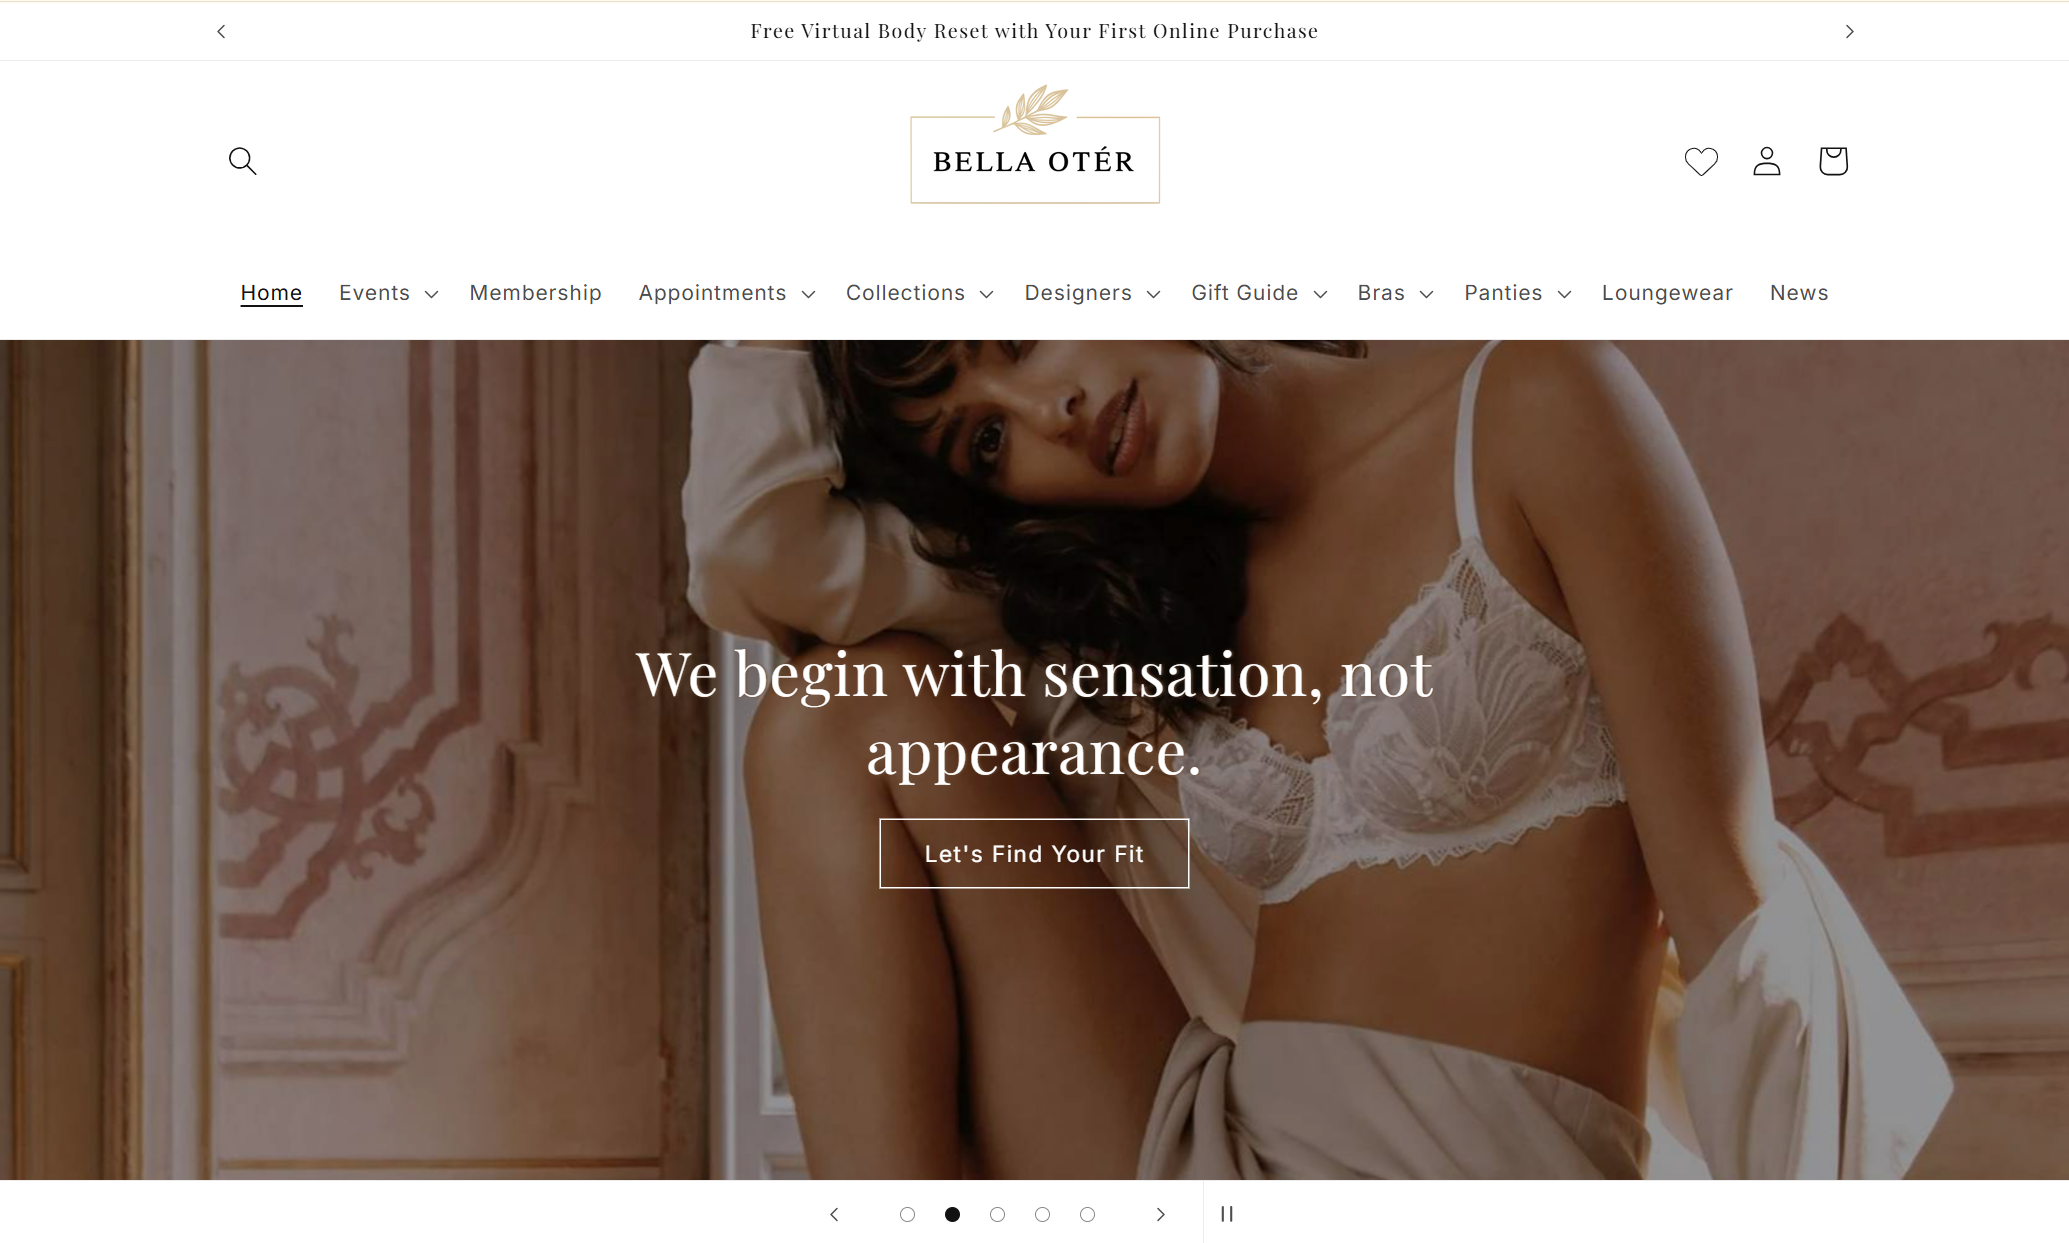
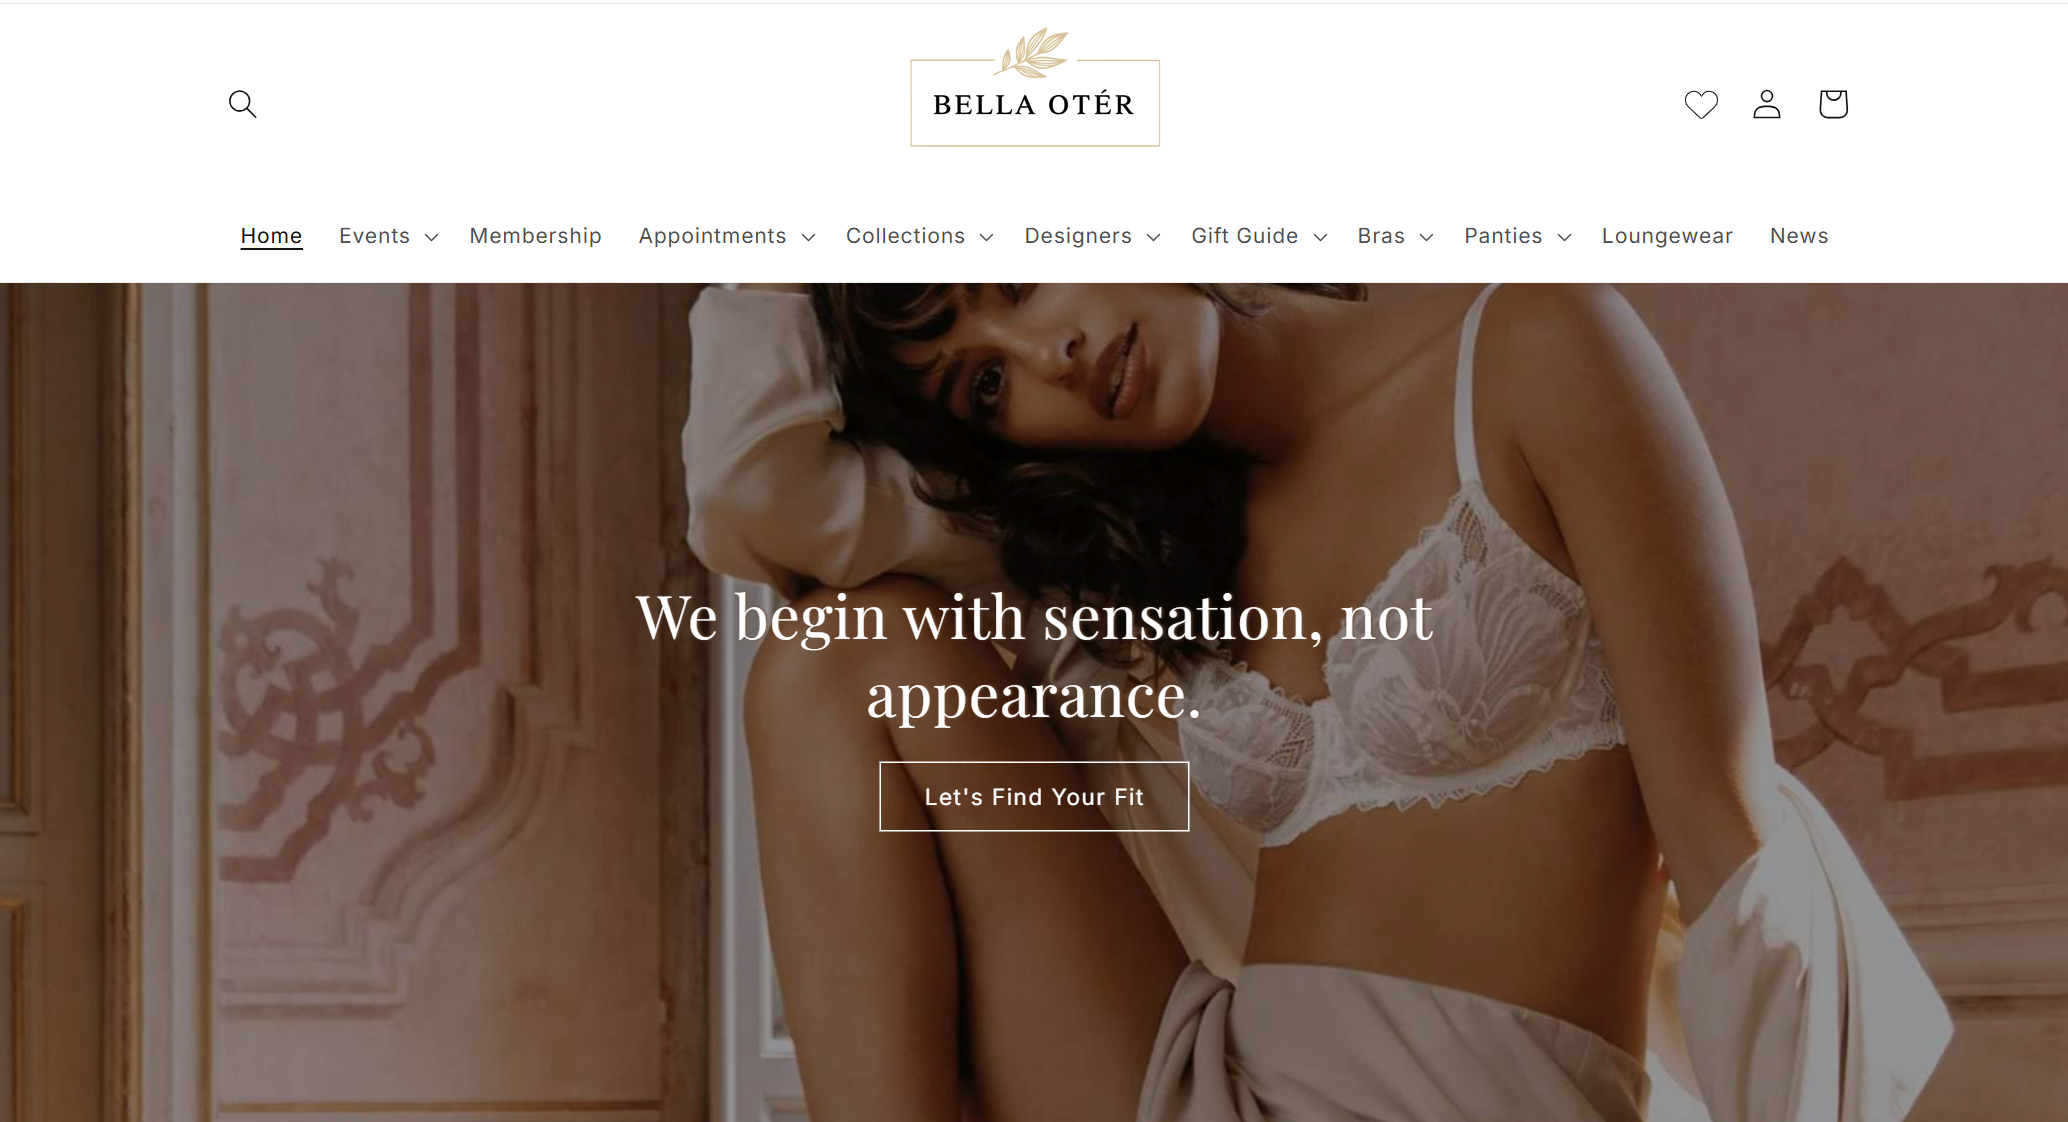
slight changes to the bella oter card

diff --git a/index.html b/index.html
@@ -154,19 +154,28 @@
               </div>
           </a>
 
-          <article class="project-card">
-            <div class="project-card__visual project-card__visual--banner">
+          
+          <a href="recipe.html" class="project-card project-card--link">
+            <div class="project-card__visual project-card__visual--image">
+              <img src="img/recipe-edit.png" alt="Preview of the interactive recipe finder application" loading="lazy">
               <span class="project-card__index">02</span>
-              <div class="banner-preview"><span>STORY / MOTION</span><strong>Designed to<br>make you feel.</strong><i></i></div>
-              <span class="project-card__visual-label">REUSABLE SECTION</span>
+              <span class="project-card__open" aria-hidden="true">↗</span>
             </div>
             <div class="project-card__body">
-              <div class="project-card__topline"><span>SHOPIFY DEVELOPMENT</span><span>02 / 06</span></div>
-              <h3>Split Video / Heading Banner</h3>
-              <p>Created a responsive, schema-driven section combining video and editorial typography. Built for reuse, allowing merchandisers to update media and copy without changing code.</p>
-              <ul class="tag-list"><li>Shopify Liquid</li><li>CSS</li><li>Reusable Sections</li></ul>
+              <div class="project-card__topline">
+                <span>INTERACTIVE WEB APPLICATION</span>
+                <span>05 / 06</span>
+              </div>
+              <h3>The Recipe Edit</h3>
+              <p>A dynamic recipe discovery app featuring API integration, real-time search, category and cuisine filters, sorting, pagination, and a responsive interface.</p>
+              <ul class="tag-list">
+                <li>JavaScript</li>
+                <li>REST API</li>
+                <li>DOM Manipulation</li>
+                <li>CSS</li>
+              </ul>
             </div>
-          </article>
+          </a>
 
           <a href="twimba.html" class="project-card project-card--link">
             <div class="project-card__visual project-card__visual--image">
@@ -191,28 +200,6 @@
               <h3>Tenzies</h3>
               <p>A dice game built with React to practice state management, hooks, conditional rendering, and win-condition logic.</p>
               <ul class="tag-list"><li>React</li><li>useState</li><li>Hooks</li></ul>
-            </div>
-          </a>
-
-          <a href="recipe.html" class="project-card project-card--link">
-            <div class="project-card__visual project-card__visual--image">
-              <img src="img/recipe-edit.png" alt="Preview of the interactive recipe finder application" loading="lazy">
-              <span class="project-card__index">05</span>
-              <span class="project-card__open" aria-hidden="true">↗</span>
-            </div>
-            <div class="project-card__body">
-              <div class="project-card__topline">
-                <span>INTERACTIVE WEB APPLICATION</span>
-                <span>05 / 06</span>
-              </div>
-              <h3>The Recipe Edit</h3>
-              <p>A dynamic recipe discovery app featuring API integration, real-time search, category and cuisine filters, sorting, pagination, and a responsive interface.</p>
-              <ul class="tag-list">
-                <li>JavaScript</li>
-                <li>REST API</li>
-                <li>DOM Manipulation</li>
-                <li>CSS</li>
-              </ul>
             </div>
           </a>
 
